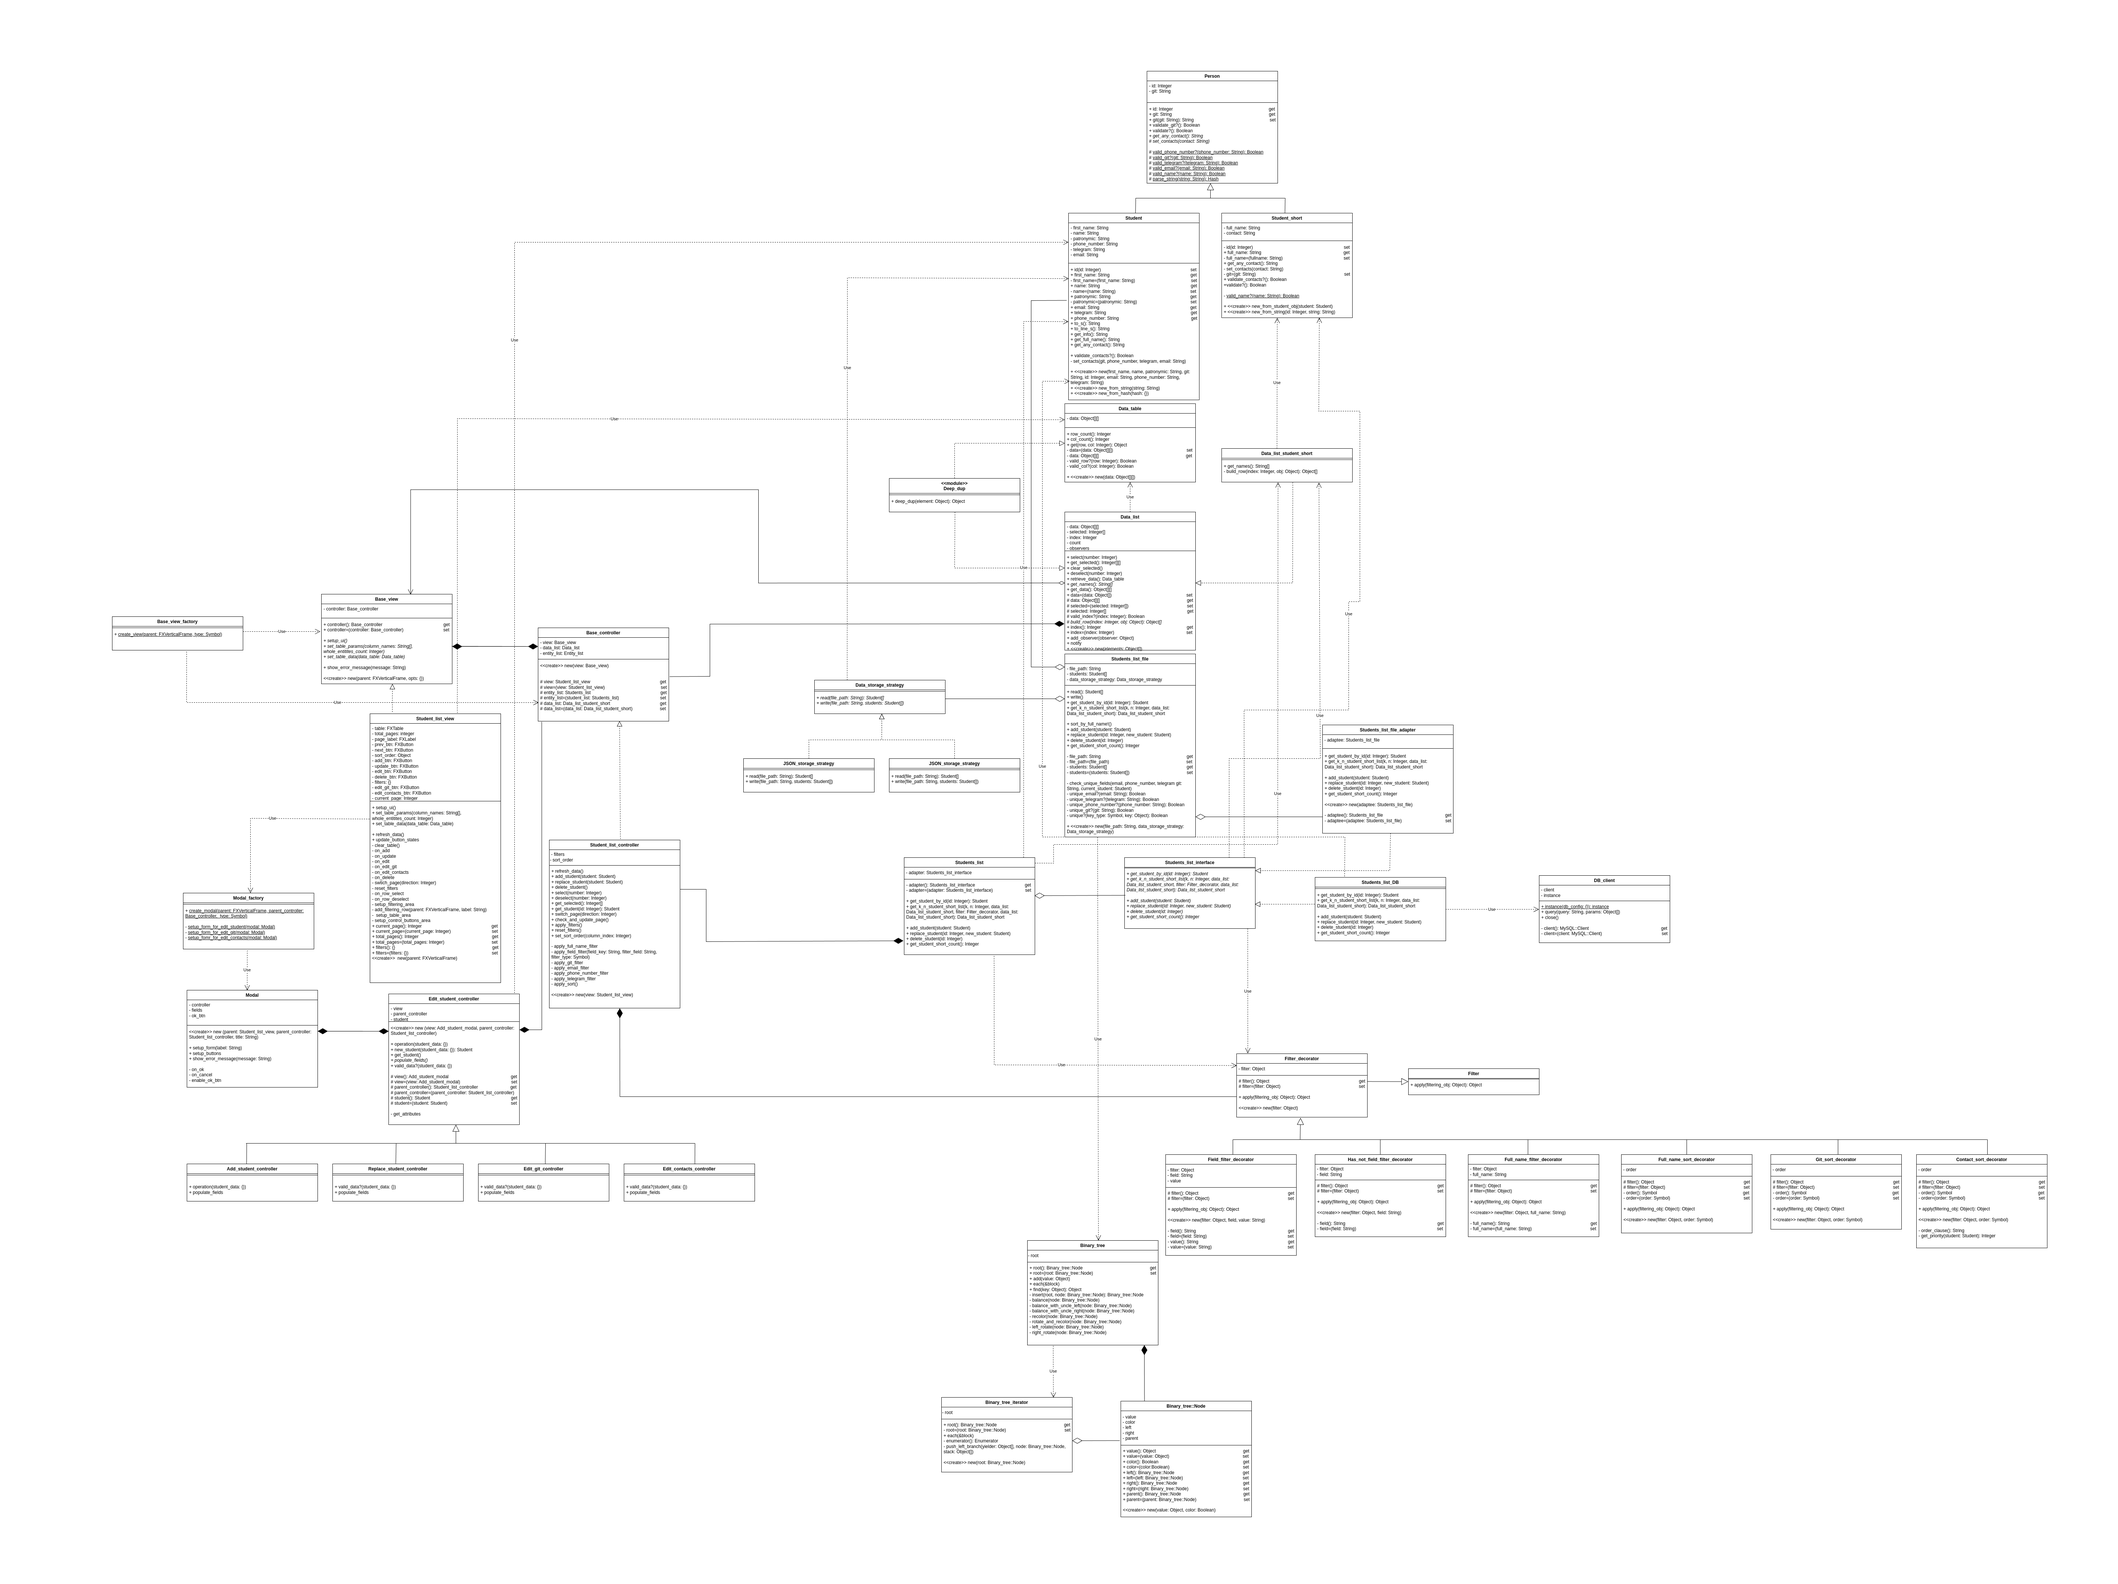
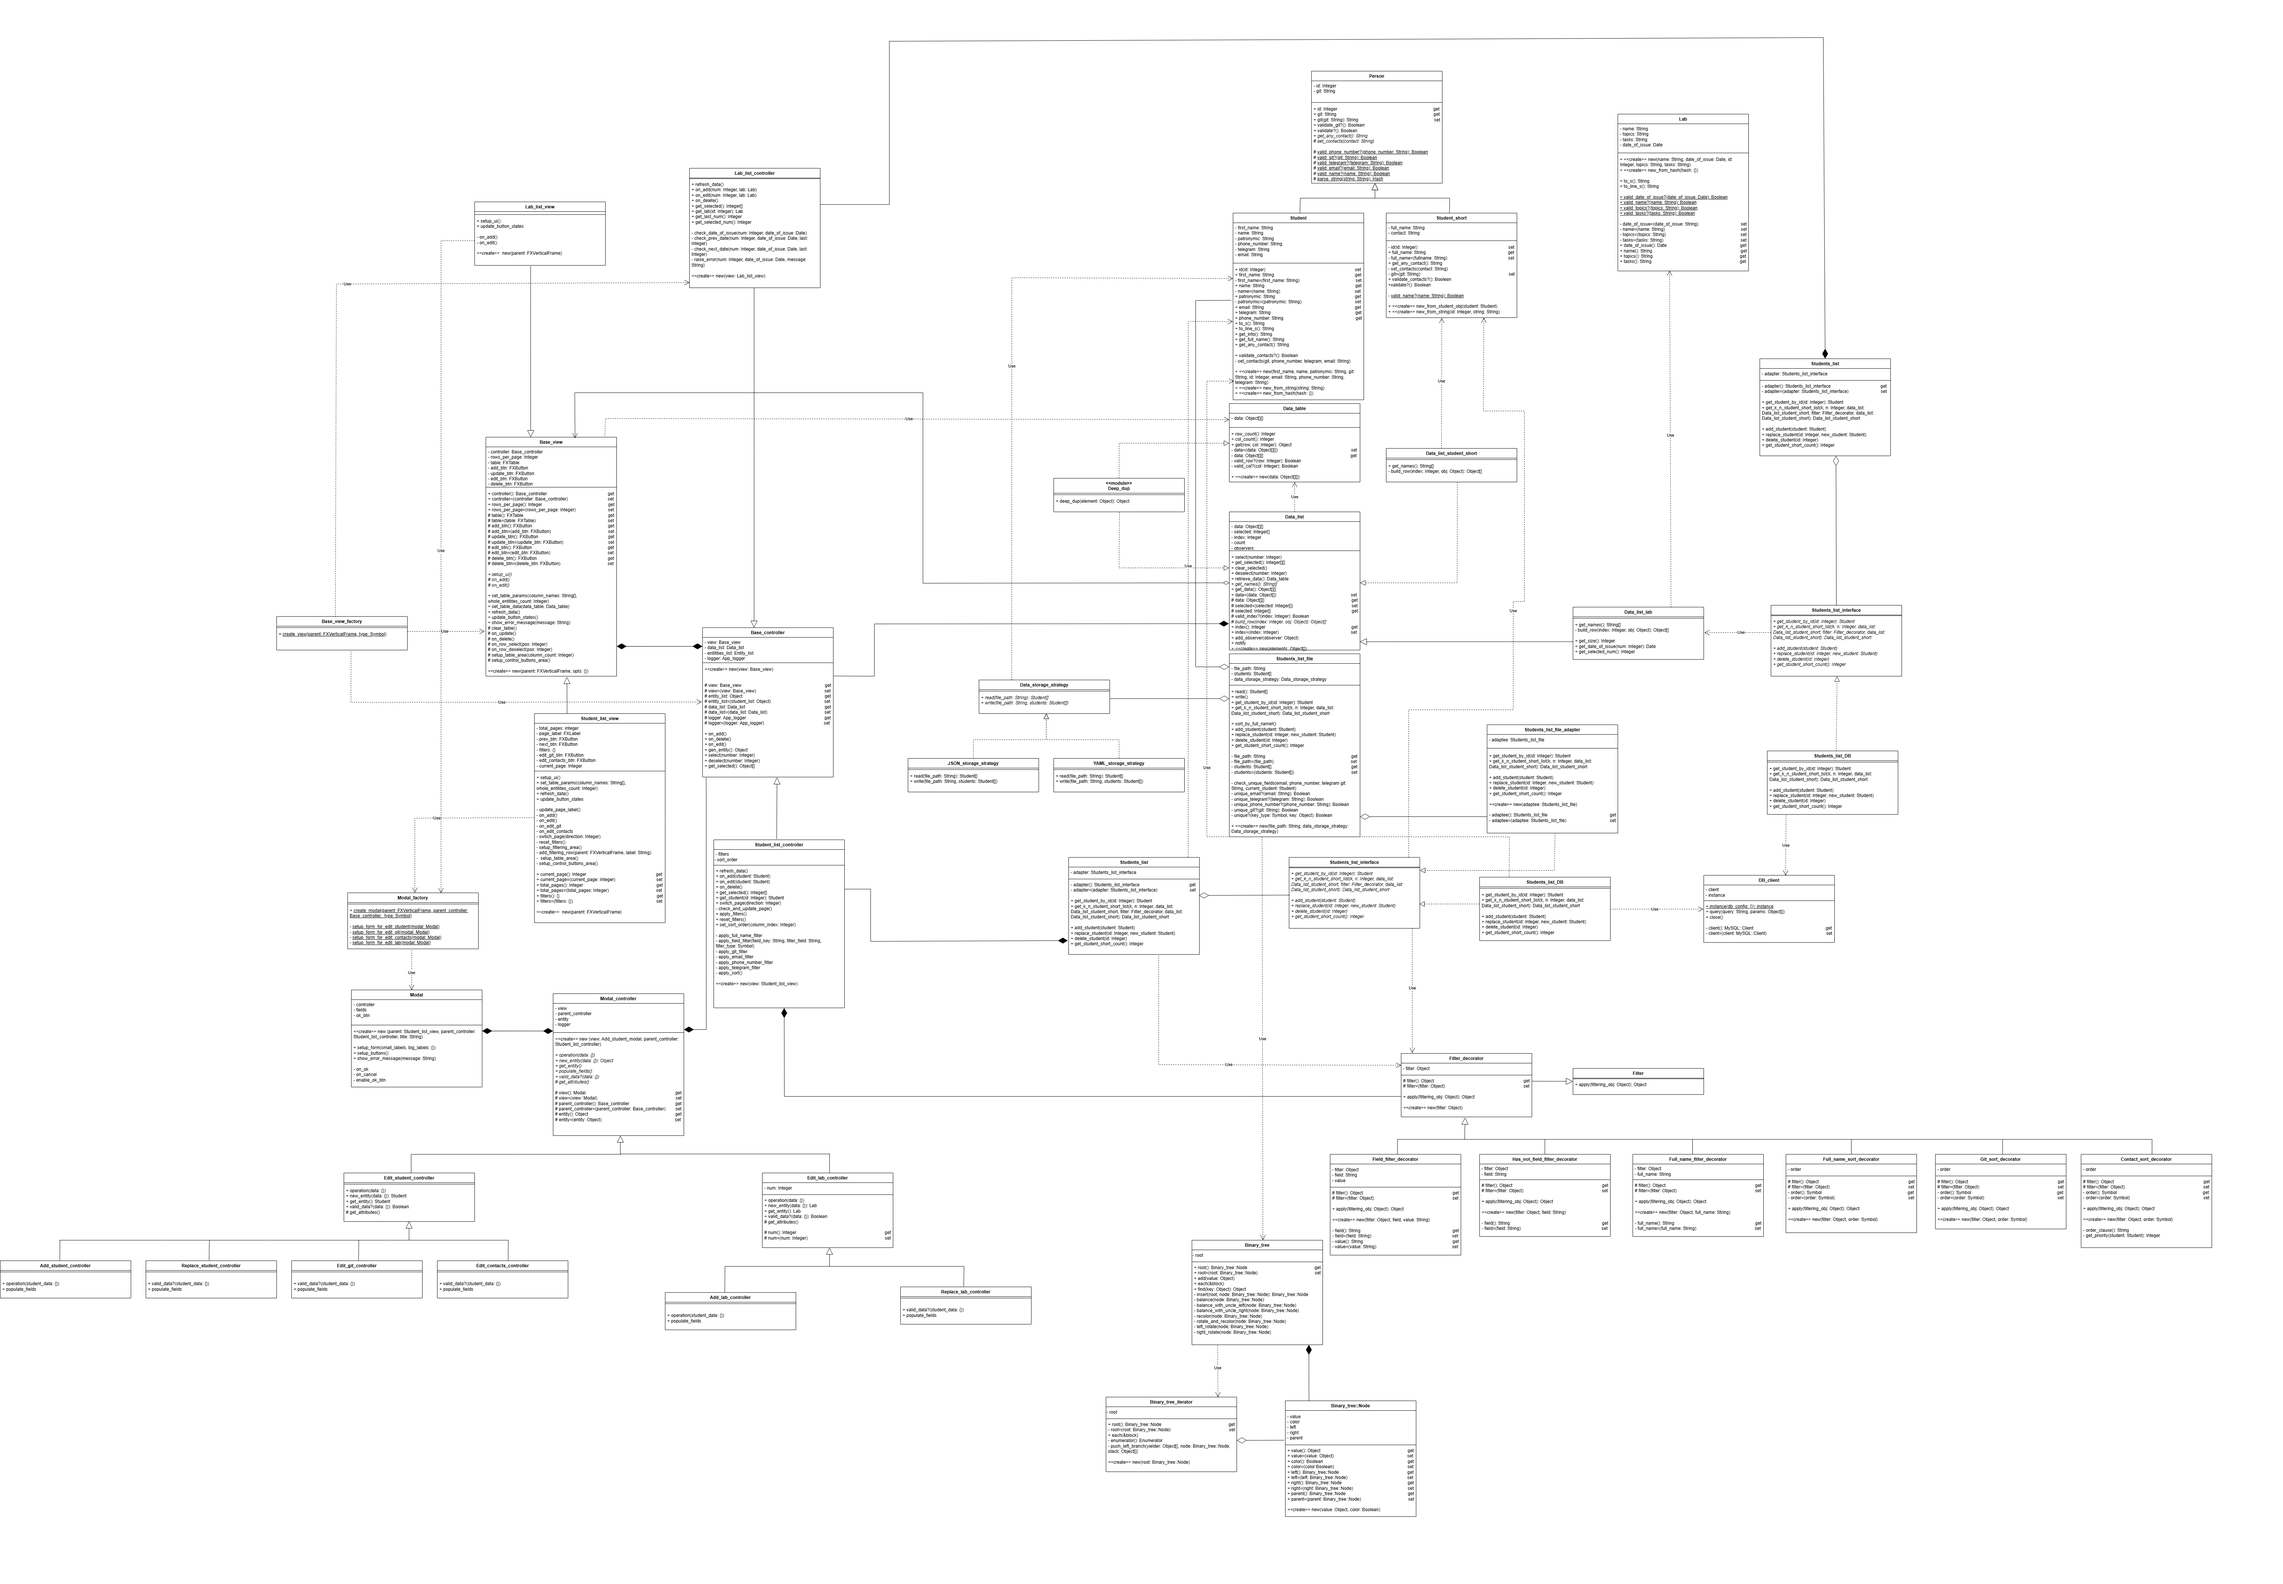
7: update diagrams

diff --git a/student_mvc/Readme.md b/student_mvc/Readme.md
@@ -1,3 +1,6 @@
+### **ER диаграмма**
+![ER](./db/student_db_ER.png)
+
 ### **Диаграмма классов**
 ![Диаграмма классов](./media/diagrams/class_diagram.png)
 
@@ -21,3 +24,15 @@
 
 ### **Диаграмма последовательности прецендента "Фильтровать данные"**
 ![Диаграмма последовательности прецендента "Фильтровать данные"](./media/diagrams/sequence_diagram_for_students_filtering.png)
+
+### **Диаграмма последовательности прецендента "Переключиться на вкладку ЛР"**
+![Диаграмма последовательности прецендента "Переключиться на вкладку ЛР"](./media/diagrams/sequence_for_switch_tab_on_labs.png)
+
+### **Диаграмма последовательности прецендента "Добавить ЛР"**
+![Диаграмма последовательности прецендента "Переключиться на вкладку ЛР"](./media/diagrams/sequence_for_add_lab.png)
+
+### **Диаграмма последовательности прецендента "Редактировать ЛР"**
+![Диаграмма последовательности прецендента "Редактировать ЛР"](./media/diagrams/sequence_for_edit_lab.png)
+
+### **Диаграмма последовательности прецендента "Удалить ЛР"**
+![Диаграмма последовательности прецендента "Переключиться на вкладку ЛР"](./media/diagrams/sequence_for_delete_lab.png)
